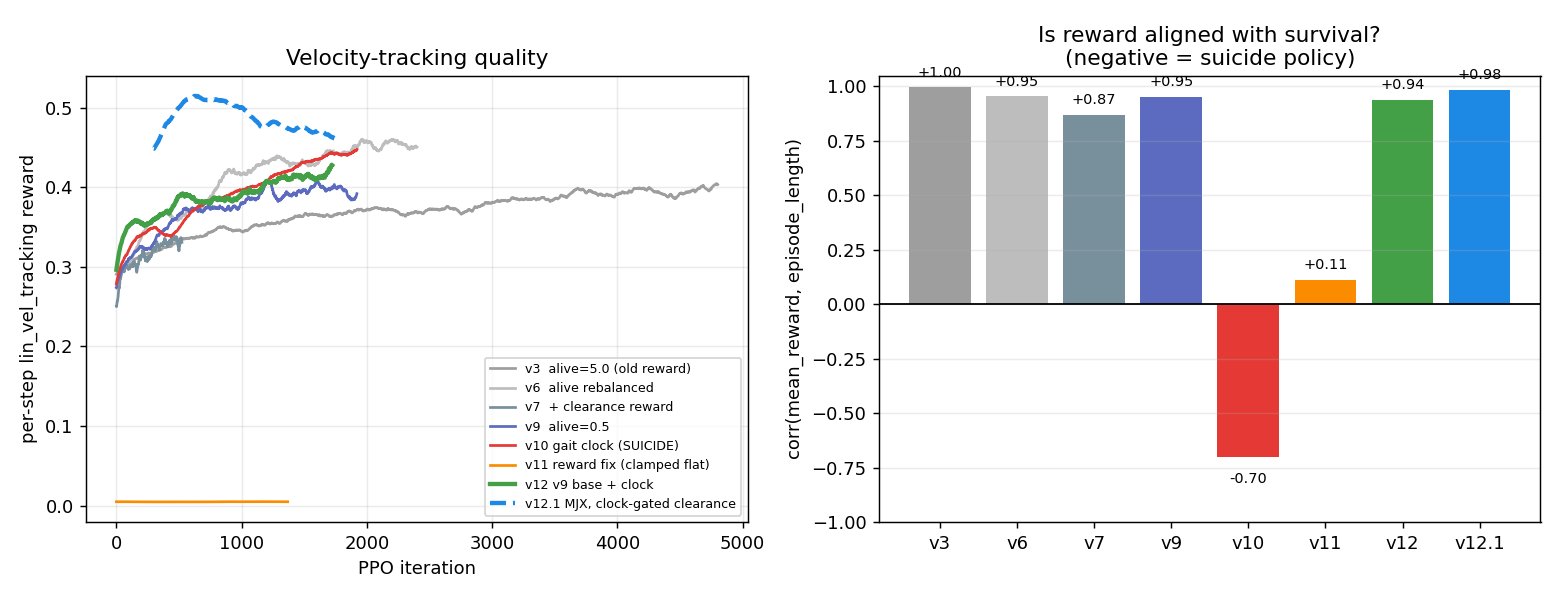
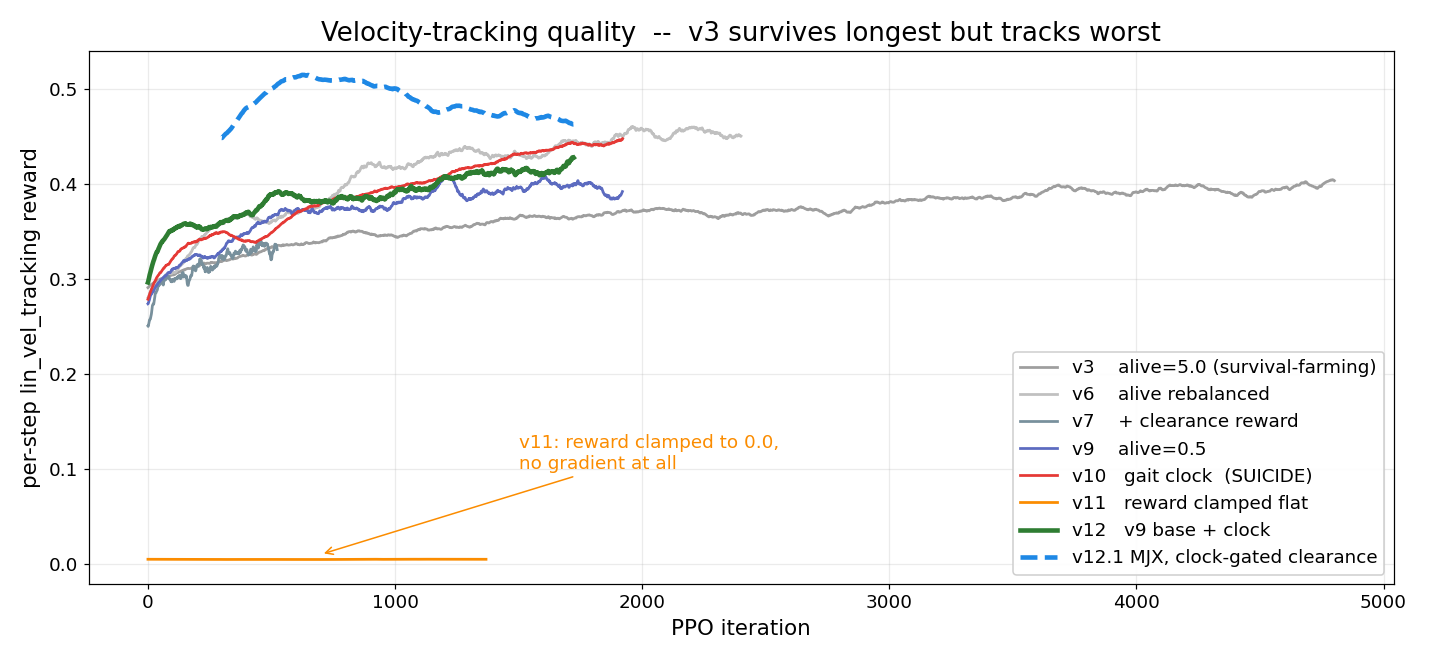
README: split training curves into three readable full-width charts
The curves were unreadable: two matplotlib figures placed side by side in a
2-column HTML table, where the right-hand image itself contained two subplots.
Four panels ended up squeezed into half the page width, with axis labels and
legends too small to read.

Splits them into three separate charts, each rendered full width at larger
figure size and font scale, stacked vertically with a one-line plain-language
heading above each rather than a table:

  1. episode_length_comparison.png -- survival, with the untrained-network
     floor annotated inline instead of as a bare dotted line
  2. tracking_quality_comparison.png -- velocity tracking, with v11's
     clamped-to-zero line called out by an arrow
  3. reward_alignment.png -- NEW, corr(mean_reward, episode_length) per run,
     previously a cramped subplot; now its own chart with value labels and
     v10's negative bar annotated

On using W&B panels directly instead: embedding those in a README requires the
project be public and depends on W&B image URLs that break with auth or run
changes. The interactive link is kept prominently in the curves section for
exploring every logged metric; committed PNGs are what stays readable without
a login.

Also fixes two now-stale cross-references ("left panel of the second chart",
"the right-hand chart") left over from the two-figure layout.

diff --git a/README.md b/README.md
@@ -113,32 +113,40 @@ seconds, and each full minute is linked underneath.
 
 ### Training curves
 
-Every run to date, read together rather than separately (dashed = MJX backend):
+Every run to date, read together rather than separately (dashed = MJX backend). Interactive
+versions of every logged metric are on
+[Weights & Biases](https://wandb.ai/shubhamt2897-hochschule-schmalkalden/g1_robust_locomotion);
+these are committed as static images so they stay readable without a W&B login.
 
-<table>
-<tr>
-<td width="50%"><img src="media/results/episode_length_comparison.png"/></td>
-<td width="50%"><img src="media/results/tracking_quality_comparison.png"/></td>
-</tr>
-</table>
+**How long the robot stays up.** The dotted line is an untrained network -- anything below it is
+worse than no training at all.
+
+![Survival across every run](media/results/episode_length_comparison.png)
+
+**How well it follows the velocity command.** This is the metric that actually reflects walking,
+and it is where `v3`'s survival advantage evaporates.
+
+![Velocity-tracking quality](media/results/tracking_quality_comparison.png)
+
+**Whether the reward is pointing the right way.** Correlation between mean reward and episode
+length, per run -- one number that catches the `v10` failure instantly.
+
+![Reward alignment](media/results/reward_alignment.png)
 
 Four things these show:
 
 - **`v3` still "wins" on raw survival (121 steps) and always did** -- but that is a reward-shaping
   artifact, not walking. Its `alive_bonus=5.0` paid for survival regardless of tracking quality,
-  and its velocity tracking (left panel of the second chart) is the *worst* of every run that
+  and its velocity tracking (second chart) is the *worst* of every run that
   trained properly. Survival alone is not the metric.
 - **`v10` is the one line that goes down.** It crosses below the untrained-network floor (dotted,
-  39.5 steps) and stays there. The right-hand chart says why: `corr(reward, episode_length)`
+  39.5 steps) and stays there. The third chart says why: `corr(reward, episode_length)`
   = **-0.70**, the only negative bar. It was being paid to die.
 - **`v11` is flat at ~18 steps with tracking pinned near zero** -- the orange line along the
   bottom. Enabling `only_positive_rewards` without also rebalancing the scales clamped the total
   reward to exactly 0.0 on essentially every step, leaving PPO no gradient at all.
 - **`v12`/`v12.1` restore the correlation to +0.94/+0.98** and climb steadily. `v12.1` was still
   rising when the run ended -- it did not converge, it ran out of iterations.
-
-Live, explorable versions of every logged metric are on
-[Weights & Biases](https://wandb.ai/shubhamt2897-hochschule-schmalkalden/g1_robust_locomotion).
 
 ### Best checkpoints, measured
 
